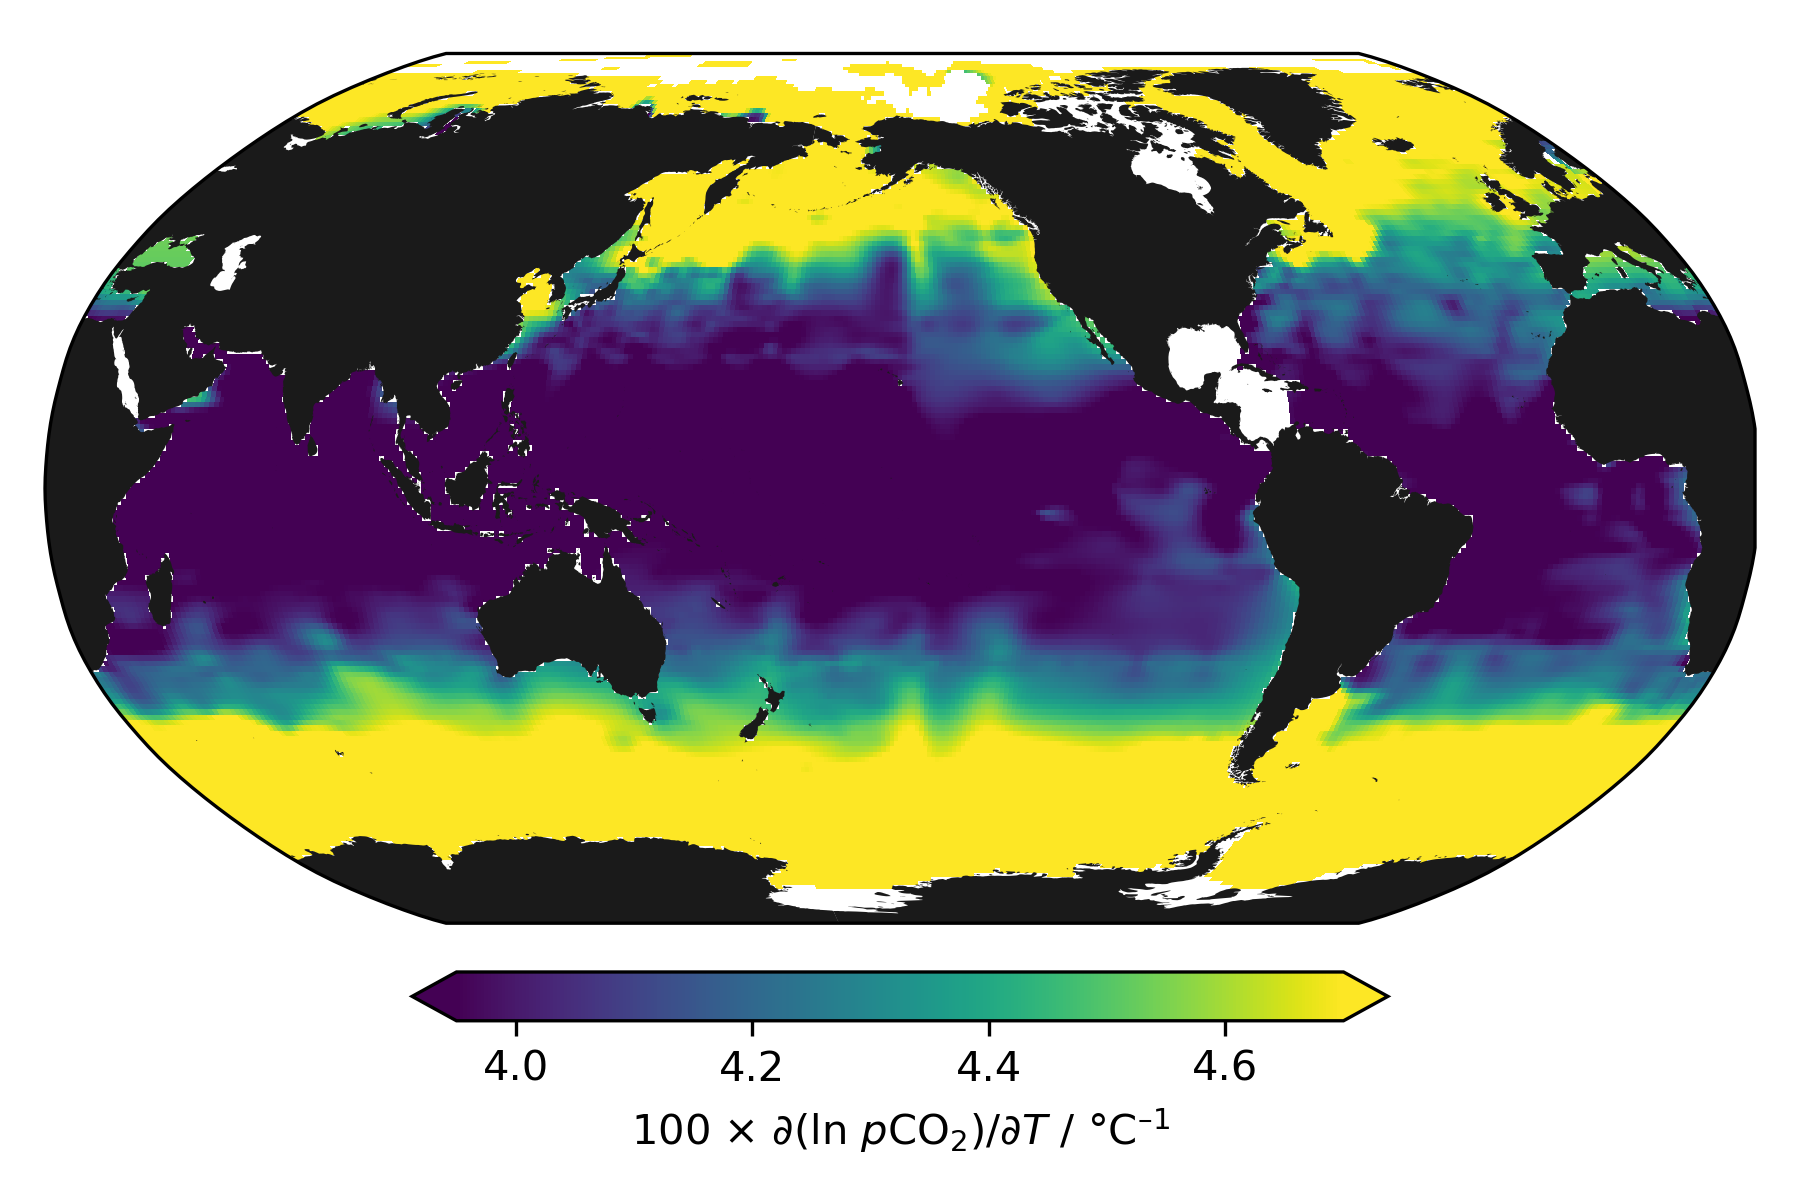
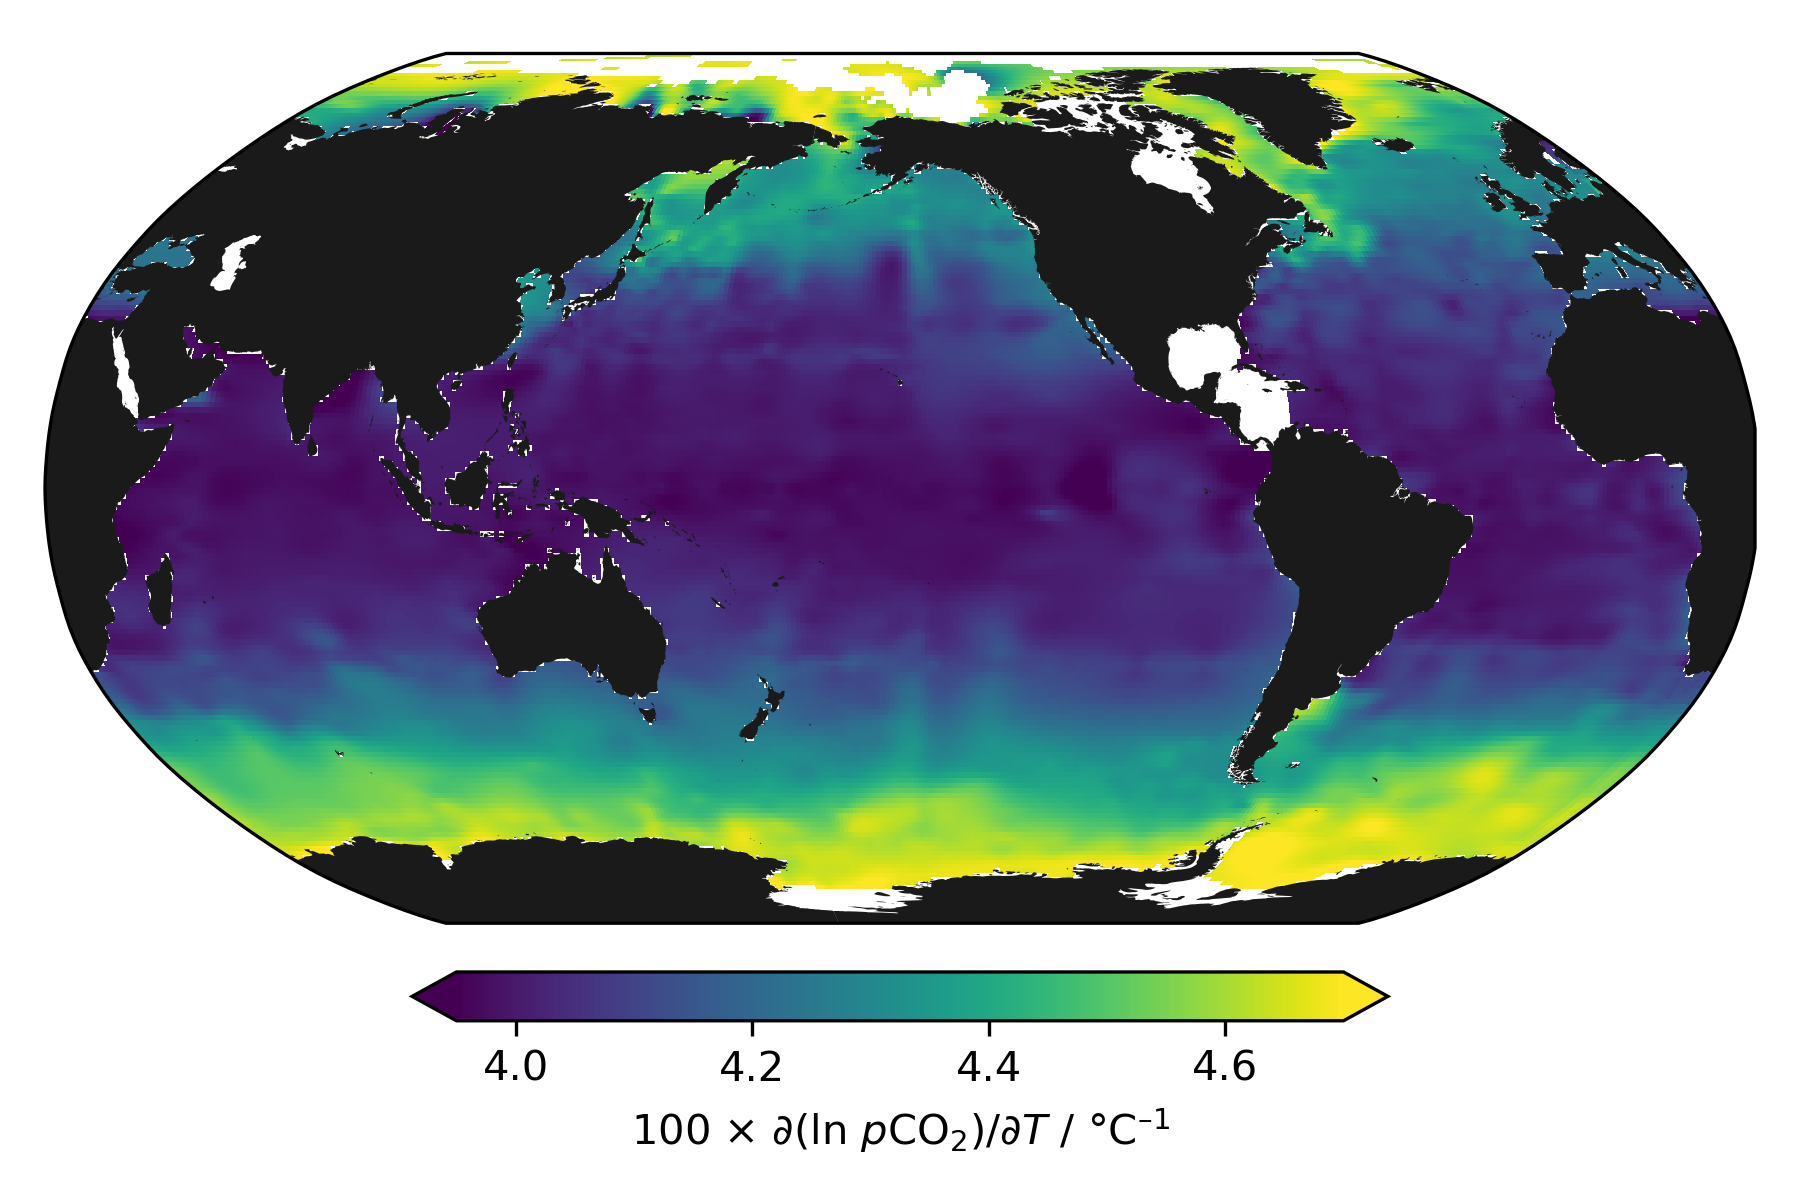
Reset to Lueker

diff --git a/f03_glodap.py b/f03_glodap.py
@@ -13,7 +13,7 @@ from scipy.stats import linregress
 from scipy.optimize import least_squares
 from takahashi93 import temperature as ex_temperature
 
-opt_k_carbonic = 1
+opt_k_carbonic = 10
 opt_total_borate = 1
 
 # Import the GLODAP gridded dataset (Lauvset et al., 2016)
